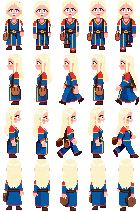
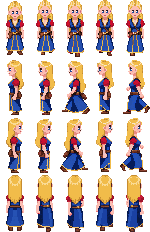
Lyra: more detailed map sprite with a walk cycle and a simpler hand-pixelled face
Claude-Session: https://claude.ai/code/session_011ut93oF3dFosg6CwKPFhiF

diff --git a/game/js/arc-art.js b/game/js/arc-art.js
@@ -1,2 +1,2 @@
 // Made by tools/village_art.py: sizes of the art and where each terrain tile sits.
-SD.arcArt = {"objects": {"nr-dungeon": [88, 129], "nr-cart": [45, 42], "nr-gate": [94, 82], "nr-waystation": [141, 137], "nr-arena": [164, 120], "nr-signpost": [24, 44], "nr-exchange": [176, 201], "nr-rock": [44, 30], "nr-camp": [134, 120], "nr-milestone": [38, 44], "nr-citygate": [213, 148], "nr-shop": [154, 116], "nr-caravan": [126, 101], "nr-courierpost": [96, 83], "nr-stage": [115, 97], "nr-arch": [107, 104], "nr-fence": [85, 32], "ws-inn": [216, 202], "ws-stable": [182, 140], "ws-tunnel": [288, 224], "ws-garden": [119, 92], "ws-tables": [101, 49], "ar-stand": [348, 109], "ar-standv": [108, 292], "ar-gate": [208, 189], "ar-booth": [148, 163], "ar-bracket": [172, 130], "ar-statue": [68, 152], "ar-wall": [190, 42], "cp-tent1": [112, 100], "cp-tent2": [79, 72], "cp-fire": [55, 60], "cp-board": [54, 69], "cp-tower": [90, 211], "cp-rack": [96, 77], "ex-ticker": [172, 105], "ex-bull": [109, 114], "ex-stall": [121, 104], "cp-chasm": [203, 154], "ex-tower": [291, 294], "ar-wallv": [48, 142], "nr-citywall": [240, 72], "nr-roofs": [132, 105], "ws-cliff": [230, 102], "ws-tunnel2": [120, 107], "ar-seats": [106, 82], "cp-dummy": [20, 58], "cp-vending": [34, 74], "ex-townhouse": [98, 158], "ex-townhouse2": [96, 162], "ex-planter": [40, 53], "ex-firepit": [62, 60]}, "terrain": {}, "chars": {"kyu": {"w": 30, "h": 53, "n": [4, 4, 4, 4], "walk": 1}, "latency": {"w": 28, "h": 56, "n": [4, 4, 4, 4], "walk": 1}, "hero1023": {"w": 26, "h": 51, "n": [4, 4, 4, 4], "walk": 1}, "hero500": {"w": 30, "h": 54, "n": [4, 4, 4, 4], "walk": 1}, "marta": {"w": 28, "h": 55, "n": [4, 4, 4, 4], "walk": 1}, "fen": {"w": 28, "h": 55, "n": [4, 4, 4, 4], "walk": 1}, "lyra": {"w": 28, "h": 53, "n": [4, 4, 4, 4], "walk": 1}, "gong": {"w": 32, "h": 51, "n": [4, 4, 4, 4], "walk": 1}, "hero77": {"w": 30, "h": 52, "n": [4, 4, 4, 4], "walk": 1}, "hero256": {"w": 32, "h": 59, "n": [4, 4, 4, 4], "walk": 1}, "hero3": {"w": 30, "h": 55, "n": [4, 4, 4, 4], "walk": 1}, "suzu": {"w": 32, "h": 56, "n": [4, 4, 4, 4], "walk": 1}, "explodia": {"w": 34, "h": 67, "n": [4, 4, 4, 4], "walk": 1}, "hypewagon": {"w": 28, "h": 53, "n": [4, 4, 4, 4], "walk": 1}, "akane": {"w": 30, "h": 54, "n": [4, 4, 4, 4], "walk": 1}, "zen": {"w": 28, "h": 54, "n": [4, 4, 4, 4], "walk": 1}, "renwalk": {"w": 28, "h": 54, "n": [4, 4, 4, 4], "walk": 1}}};
+SD.arcArt = {"objects": {"nr-dungeon": [88, 129], "nr-cart": [45, 42], "nr-gate": [94, 82], "nr-waystation": [141, 137], "nr-arena": [164, 120], "nr-signpost": [24, 44], "nr-exchange": [176, 201], "nr-rock": [44, 30], "nr-camp": [134, 120], "nr-milestone": [38, 44], "nr-citygate": [213, 148], "nr-shop": [154, 116], "nr-caravan": [126, 101], "nr-courierpost": [96, 83], "nr-stage": [115, 97], "nr-arch": [107, 104], "nr-fence": [85, 32], "ws-inn": [216, 202], "ws-stable": [182, 140], "ws-tunnel": [288, 224], "ws-garden": [119, 92], "ws-tables": [101, 49], "ar-stand": [348, 109], "ar-standv": [108, 292], "ar-gate": [208, 189], "ar-booth": [148, 163], "ar-bracket": [172, 130], "ar-statue": [68, 152], "ar-wall": [190, 42], "cp-tent1": [112, 100], "cp-tent2": [79, 72], "cp-fire": [55, 60], "cp-board": [54, 69], "cp-tower": [90, 211], "cp-rack": [96, 77], "ex-ticker": [172, 105], "ex-bull": [109, 114], "ex-stall": [121, 104], "cp-chasm": [203, 154], "ex-tower": [291, 294], "ar-wallv": [48, 142], "nr-citywall": [240, 72], "nr-roofs": [132, 105], "ws-cliff": [230, 102], "ws-tunnel2": [120, 107], "ar-seats": [106, 82], "cp-dummy": [20, 58], "cp-vending": [34, 74], "ex-townhouse": [98, 158], "ex-townhouse2": [96, 162], "ex-planter": [40, 53], "ex-firepit": [62, 60]}, "terrain": {}, "chars": {"kyu": {"w": 30, "h": 53, "n": [4, 4, 4, 4], "walk": 1}, "latency": {"w": 28, "h": 56, "n": [4, 4, 4, 4], "walk": 1}, "hero1023": {"w": 26, "h": 51, "n": [4, 4, 4, 4], "walk": 1}, "hero500": {"w": 30, "h": 54, "n": [4, 4, 4, 4], "walk": 1}, "marta": {"w": 28, "h": 55, "n": [4, 4, 4, 4], "walk": 1}, "fen": {"w": 28, "h": 55, "n": [4, 4, 4, 4], "walk": 1}, "lyra": {"w": 30, "h": 58, "n": [4, 4, 4, 4], "walk": 1}, "gong": {"w": 32, "h": 51, "n": [4, 4, 4, 4], "walk": 1}, "hero77": {"w": 30, "h": 52, "n": [4, 4, 4, 4], "walk": 1}, "hero256": {"w": 32, "h": 59, "n": [4, 4, 4, 4], "walk": 1}, "hero3": {"w": 30, "h": 55, "n": [4, 4, 4, 4], "walk": 1}, "suzu": {"w": 32, "h": 56, "n": [4, 4, 4, 4], "walk": 1}, "explodia": {"w": 34, "h": 67, "n": [4, 4, 4, 4], "walk": 1}, "hypewagon": {"w": 28, "h": 53, "n": [4, 4, 4, 4], "walk": 1}, "akane": {"w": 30, "h": 54, "n": [4, 4, 4, 4], "walk": 1}, "zen": {"w": 28, "h": 54, "n": [4, 4, 4, 4], "walk": 1}, "renwalk": {"w": 28, "h": 54, "n": [4, 4, 4, 4], "walk": 1}}};
